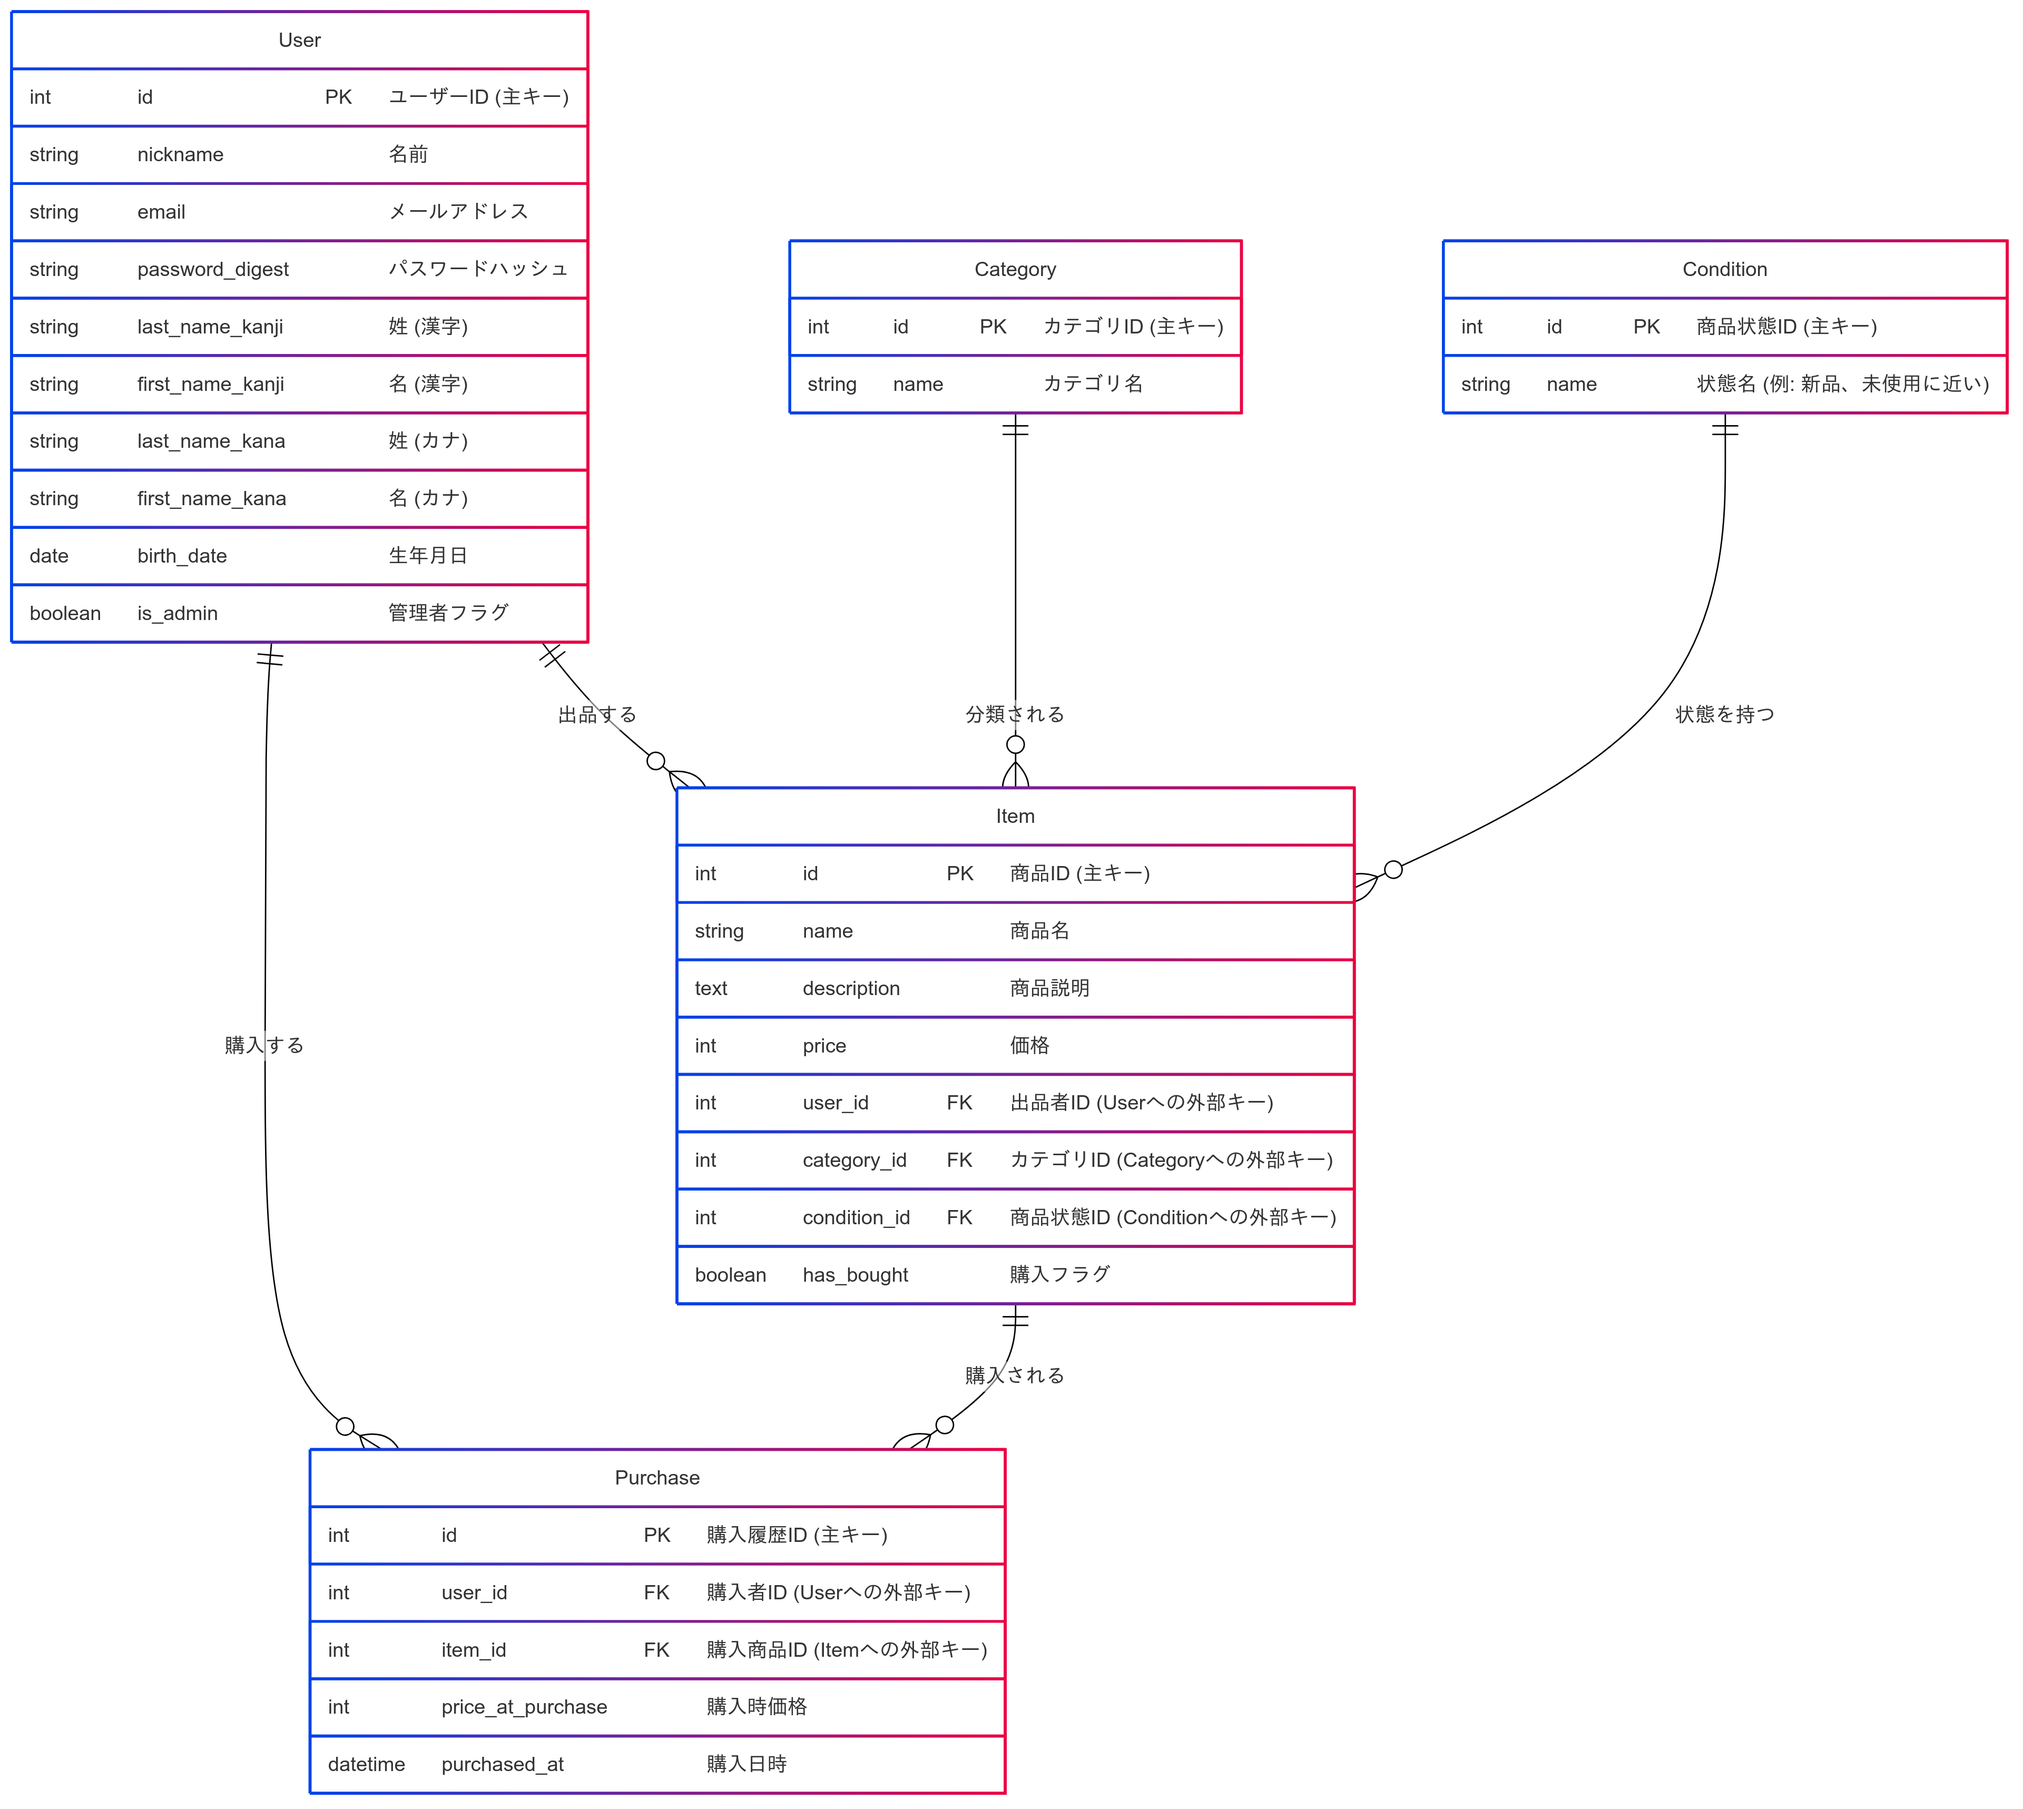
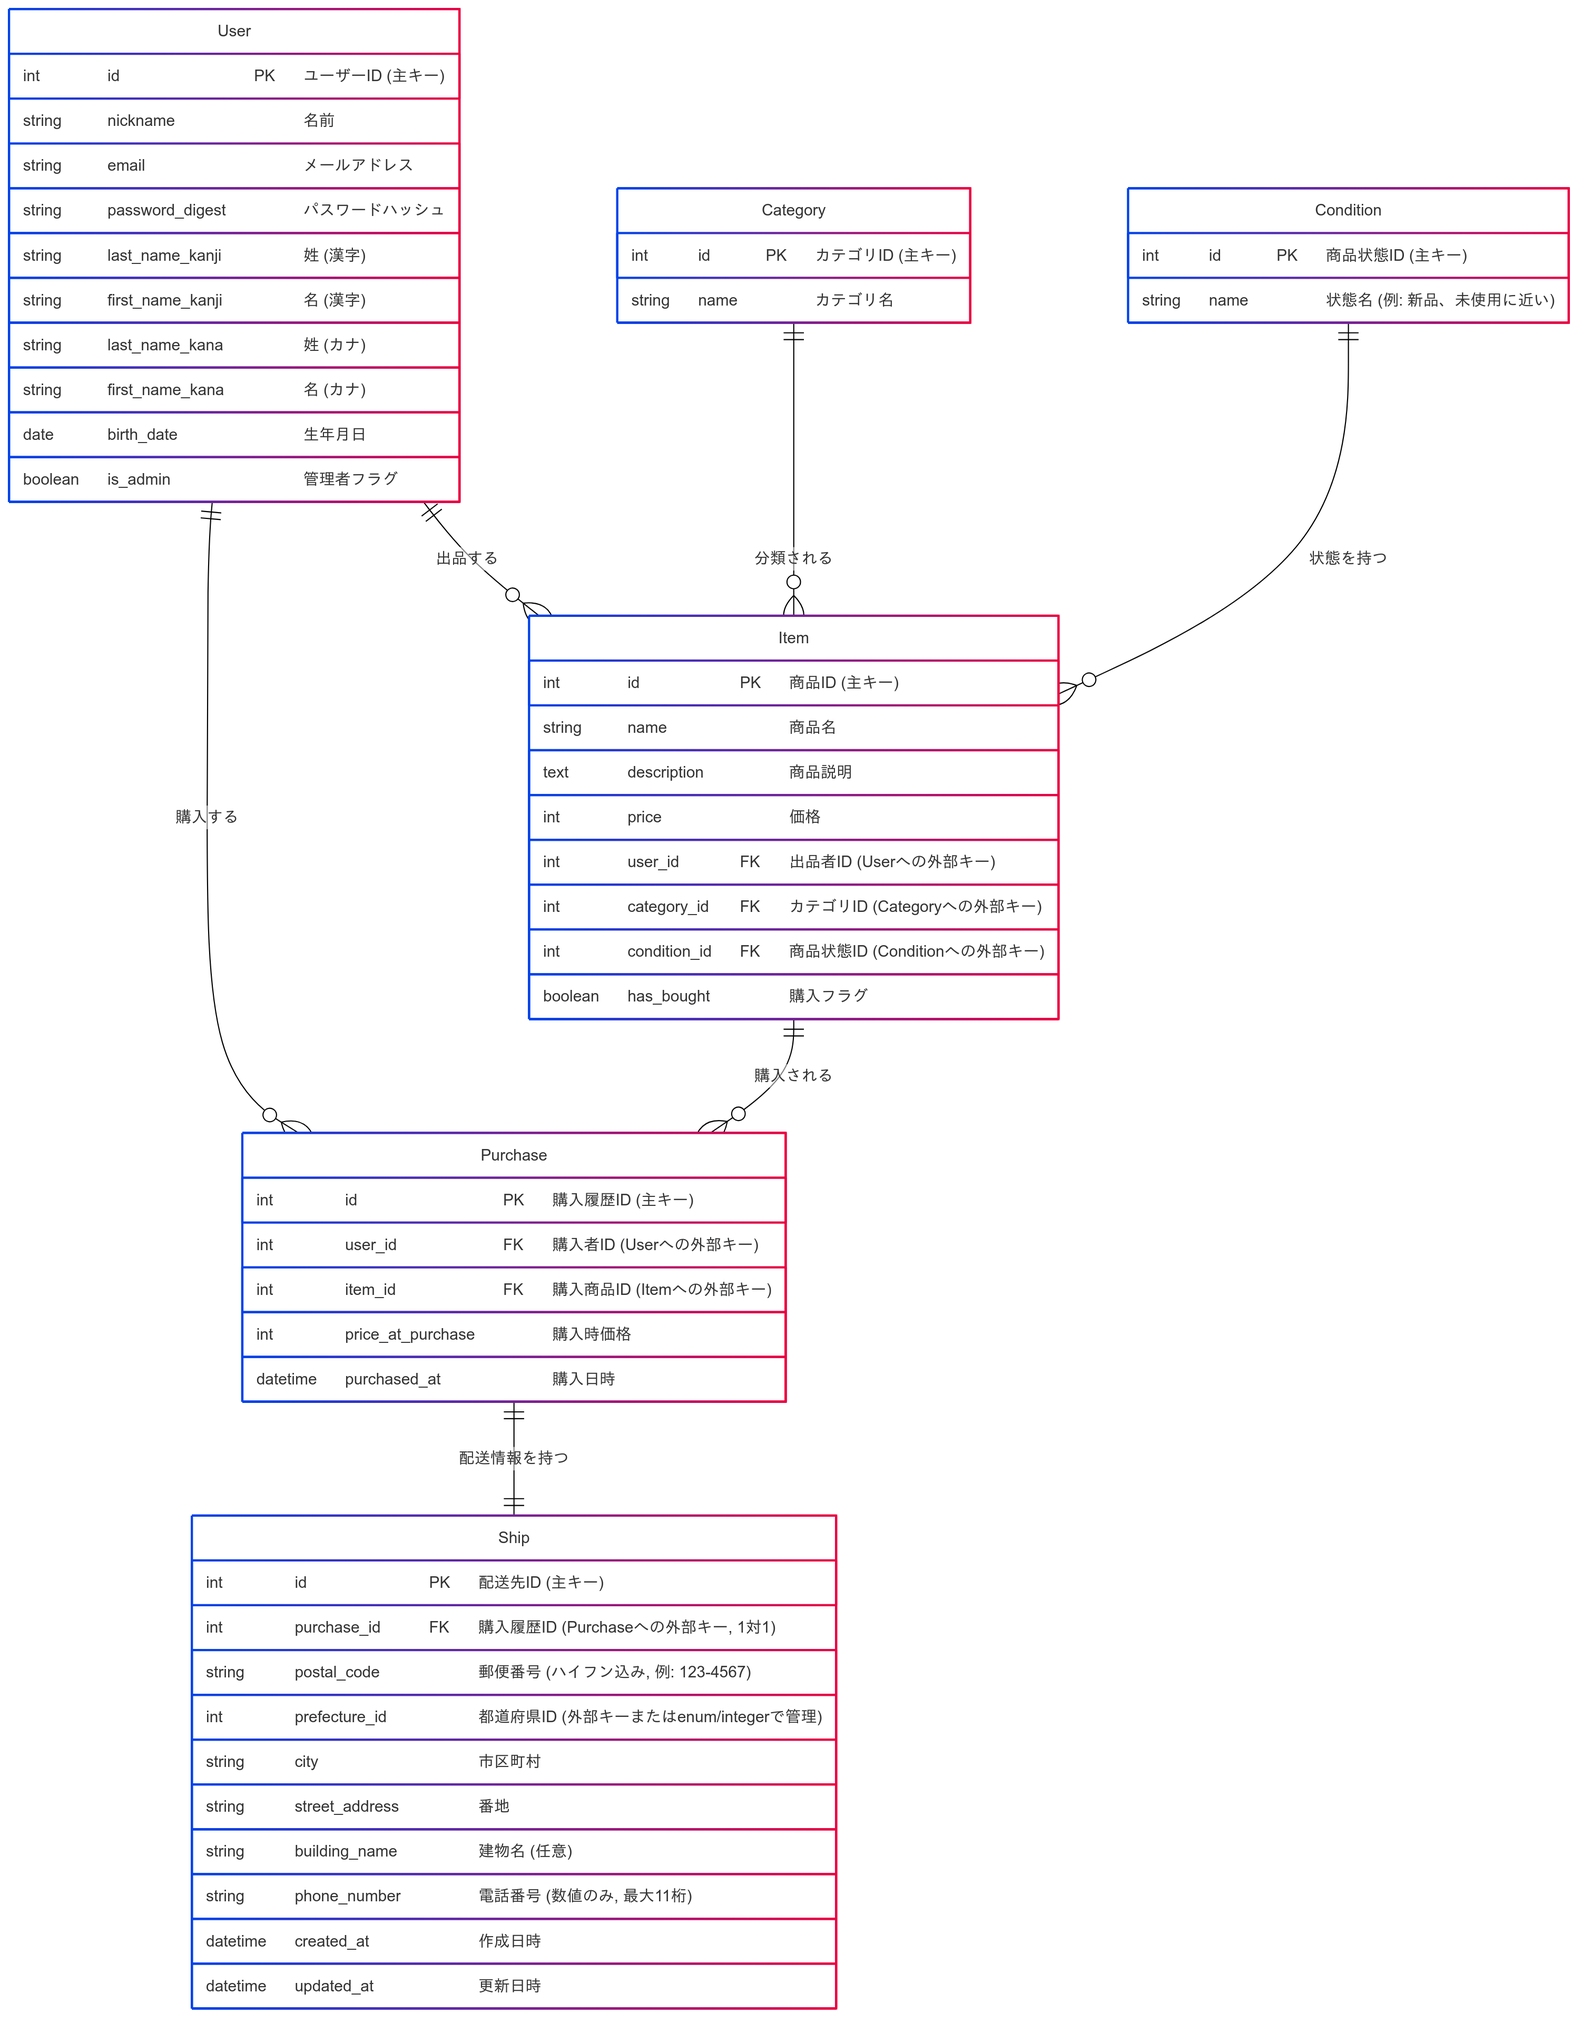
pngファイルの修正

diff --git a/README.md b/README.md
@@ -34,12 +34,12 @@
 ### Userテーブル (users)
 
 |   |   |   |
-|---|---|---|
 |Column|Type|Options|
+|---|---|---|
 |id|bigint|null: false, primary_key: true|
 |nickname|string|null: false|
 |email|string|null: false, unique: true|
-|password_digest|string|null: false|
+|encrypted_password|string|null: false|
 |last_name_kanji|string|null: false|
 |first_name_kanji|string|null: false|
 |last_name_kana|string|null: false|
@@ -57,15 +57,14 @@
 ### Itemテーブル (items)
 
 |   |   |   |
-|---|---|---|
 |Column|Type|Options|
+|---|---|---|
 |id|bigint|null: false, primary_key: true|
 |name|string|null: false|
 |description|text|null: false|
 |price|integer|null: false|
-|user|references|null: false, foreign_key: true|
-|category|references|null: false, foreign_key: true|
-|condition|references|null: false, foreign_key: true|
+|category_id|integer|null: false|
+|condition_id|integer|null: false|
 |has_bought|boolean|null: false, default: false|
 |created_at|datetime|null: false|
 |updated_at|datetime|null: false|
@@ -83,8 +82,8 @@
 ### Categoryテーブル (categories)
 
 |   |   |   |
-|---|---|---|
 |Column|Type|Options|
+|---|---|---|
 |id|bigint|null: false, primary_key: true|
 |name|string|null: false, unique: true|
 |created_at|datetime|null: false|
@@ -100,8 +99,8 @@
 ### Conditionテーブル (conditions)
 
 |   |   |   |
-|---|---|---|
 |Column|Type|Options|
+|---|---|---|
 |id|bigint|null: false, primary_key: true|
 |name|string|null: false, unique: true|
 |created_at|datetime|null: false|
@@ -114,13 +113,11 @@
 
 ### Purchaseテーブル (purchases)
 |   |   |   |
-|---|---|---|
 |Column|Type|Options|
+|---|---|---|
 |id|bigint|null: false, primary_key: true|
 |user|references|null: false, foreign_key: true|
 |item|references|null: false, foreign_key: true|
-|price_at_purchase|integer|null: false|
-|purchased_at|datetime|null: false|
 |created_at|datetime|null: false|
 |updated_at|datetime|null: false|
 
@@ -128,3 +125,23 @@
 
 - belongs_to :user
 - belongs_to :item
+- has_one :ship
+
+## Shipテーブル (ships)
+
+|   |   |   |   |
+|Column|Type|Options|説明|
+|---|---|---|---|
+|id|bigint|null: false, primary_key: true|配送先ID (主キー)|
+|purchase|references|null: false, foreign_key: true, unique: true|購入履歴ID (Purchaseへの外部キー, 1対1の関係のためunique制約)|
+|postal_code|string|null: false|郵便番号 (ハイフン込み, 例: "123-4567")|
+|prefecture_id|integer|null: false|都道府県ID (ActiveHash等で管理する想定。または文字列型)|
+|city|string|null: false|市区町村|
+|street_address|string|null: false|番地|
+|building_name|string|null: true|建物名 (任意入力)|
+|phone_number|string|null: false|電話番号 (数値のみ, 最大11桁。バリデーションで制御)|
+|created_at|datetime|null: false|作成日時|
+|updated_at|datetime|null: false|更新日時|
+
+#### Association
+- belongs_to :purchase
